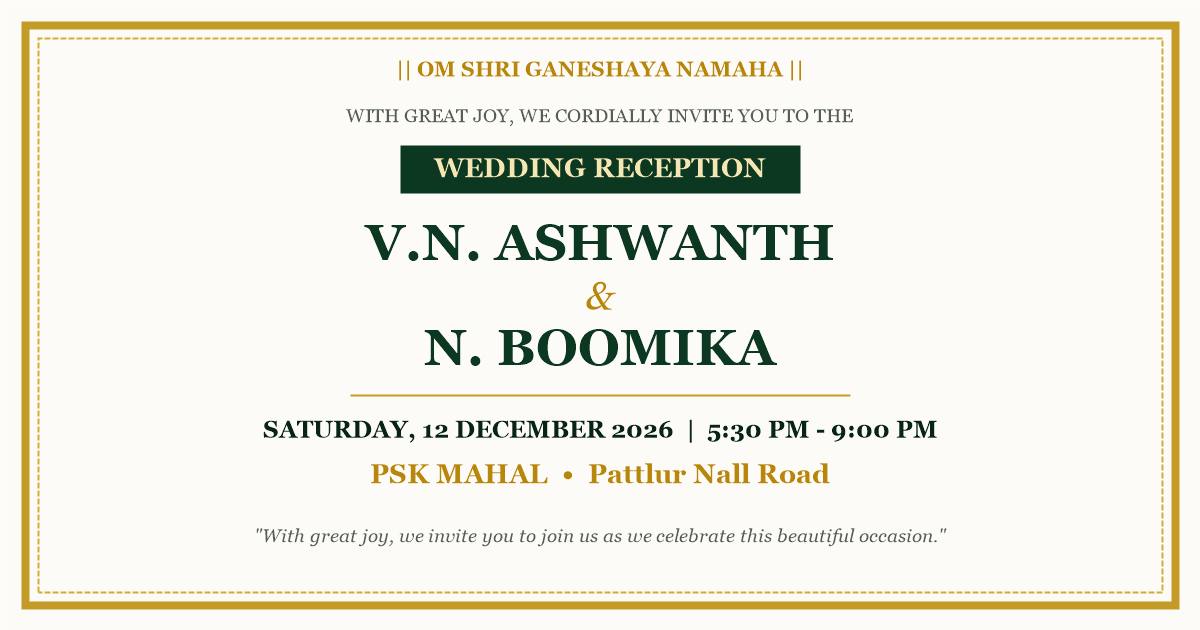
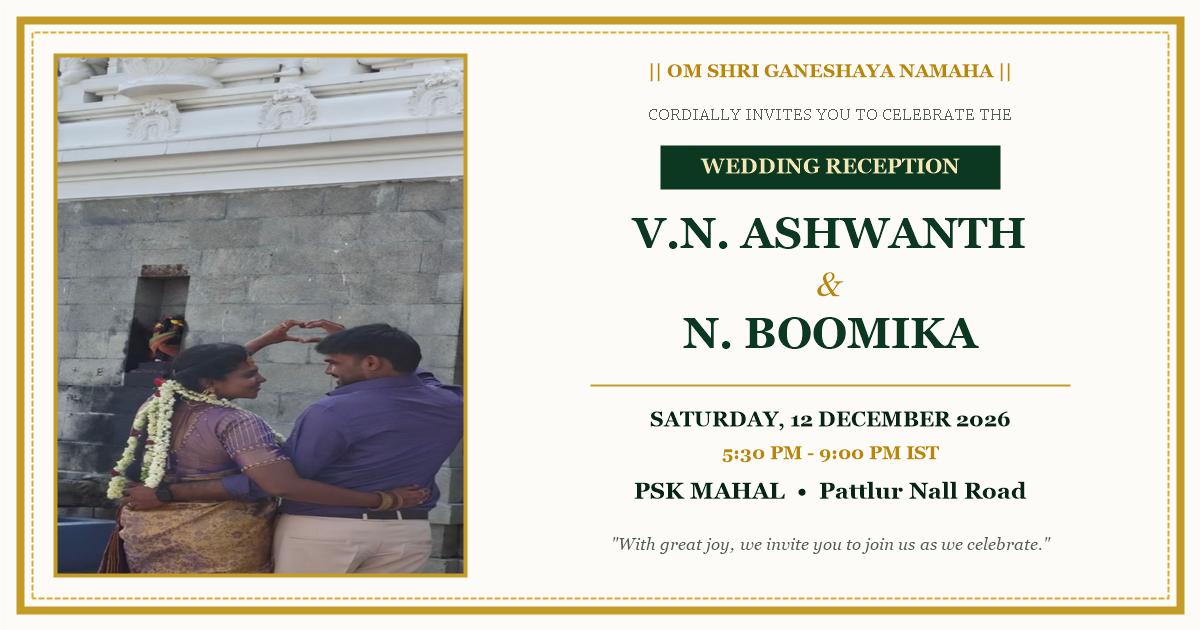
Add authentic couple photographs and updated gallery lightbox

diff --git a/src/components/PhotoGallery.jsx b/src/components/PhotoGallery.jsx
@@ -1,117 +1,210 @@
 import React, { useState } from 'react';
-import { Camera, X, ZoomIn, Image as ImageIcon, Heart } from 'lucide-react';
+import { Camera, X, ZoomIn, Heart, Sparkles, ChevronLeft, ChevronRight } from 'lucide-react';
 import { weddingData } from '../config/invitation';
-import { RoyalMandalaDivider } from './IndianMotifs';
+import { RoyalMandalaDivider, AntiqueCorner } from './IndianMotifs';
 
 /**
  * PhotoGallery Component
- * Provides a responsive royal photo gallery with full-screen Lightbox viewing.
- * Specially designed so the user's uploaded photographs can be seamlessly displayed.
+ * Displays the authentic bride & groom photographs of V.N. Ashwanth & N. Boomika.
+ * Includes interactive Lightbox with next/previous controls and full-screen resolution.
  */
 export const PhotoGallery = () => {
-  const [selectedPhoto, setSelectedPhoto] = useState(null);
+  const [selectedIndex, setSelectedIndex] = useState(null);
 
-  // Checks if user has added personal photos or is waiting for uploads
   const photos = weddingData.gallery || [];
+
+  const handleNext = (e) => {
+    e.stopPropagation();
+    setSelectedIndex((prev) => (prev + 1) % photos.length);
+  };
+
+  const handlePrev = (e) => {
+    e.stopPropagation();
+    setSelectedIndex((prev) => (prev - 1 + photos.length) % photos.length);
+  };
 
   return (
     <section className="py-12 px-4 relative z-10 text-center">
-      <div className="max-w-md md:max-w-2xl mx-auto bg-gradient-to-b from-[#fffdf9] to-[#faf5e8] p-6 md:p-8 rounded-3xl border-2 border-amber-500/40 shadow-[0_12px_40px_rgba(11,35,21,0.08)]">
+      <div className="max-w-md sm:max-w-xl mx-auto bg-gradient-to-b from-[#fffdf9] via-[#faf5e8] to-[#f6eedb] p-6 sm:p-8 rounded-3xl border-2 border-amber-500/40 shadow-[0_15px_45px_rgba(11,35,21,0.08)] relative overflow-hidden">
         
+        {/* Antique Gold Corners */}
+        <div className="absolute top-2 left-2 text-amber-600/60 pointer-events-none">
+          <AntiqueCorner position="top-left" className="w-10 h-10" />
+        </div>
+        <div className="absolute top-2 right-2 text-amber-600/60 pointer-events-none">
+          <AntiqueCorner position="top-right" className="w-10 h-10" />
+        </div>
+
         <p className="font-serif text-xs md:text-sm tracking-[0.25em] uppercase text-emerald-900 font-semibold mb-1">
-          Moments Of Joy
+          Cherished Moments
         </p>
         
         <h3 className="font-script text-3xl md:text-4xl text-amber-700 my-1">
-          Photo Gallery
+          Ashwanth &amp; Boomika
         </h3>
 
         <p className="text-xs text-stone-600 font-sans mb-4">
-          Celebrating the journey of Ashwanth &amp; Boomika
+          Stepping into a lifetime of love, laughter &amp; togetherness
         </p>
 
         <RoyalMandalaDivider className="mb-6" />
 
-        {/* Gallery Grid */}
-        <div className="grid grid-cols-2 gap-3 sm:gap-4">
-          {photos.map((item, idx) => (
-            <div
-              key={item.id || idx}
-              onClick={() => setSelectedPhoto(item)}
-              className="group relative aspect-[4/5] rounded-2xl overflow-hidden cursor-pointer border-2 border-amber-500/30 bg-[#f4ecd8] shadow-sm hover:shadow-md hover:border-amber-500 transition-all duration-300"
-            >
-              <img
-                src={item.url}
-                alt={item.alt || `Ashwanth & Boomika photo ${idx + 1}`}
-                className="w-full h-full object-cover group-hover:scale-105 transition-transform duration-500"
-                loading="lazy"
-                onError={(e) => {
-                  // Fallback styling if image url not found yet
-                  e.target.style.display = 'none';
-                  e.target.nextSibling.style.display = 'flex';
-                }}
-              />
-              
-              {/* Fallback placeholder when waiting for user's upload */}
-              <div className="hidden absolute inset-0 flex-col items-center justify-center p-4 text-center bg-[#f7f1e1]">
-                <Camera className="w-8 h-8 text-amber-600/60 mb-2" />
-                <span className="font-serif text-xs text-emerald-950 font-bold">
+        {/* FEATURED PHOTO: Couple Romantic Heart Pose */}
+        {photos[0] && (
+          <div 
+            onClick={() => setSelectedIndex(0)}
+            className="group relative w-full aspect-[4/5] sm:aspect-[16/10] rounded-2xl overflow-hidden cursor-pointer border-2 border-amber-500/50 shadow-md mb-4 bg-stone-900"
+          >
+            <img
+              src={photos[0].url}
+              alt={photos[0].alt}
+              className="w-full h-full object-cover object-top group-hover:scale-105 transition-transform duration-500"
+            />
+            <div className="absolute inset-0 bg-gradient-to-t from-emerald-950/80 via-transparent to-black/20 flex flex-col justify-between p-4 text-left">
+              <span className="self-end px-3 py-1 rounded-full bg-black/40 backdrop-blur-xs text-amber-300 text-[10px] font-serif tracking-widest uppercase border border-amber-400/40">
+                Tap to Expand
+              </span>
+              <div>
+                <p className="text-white font-serif font-bold text-base sm:text-lg drop-shadow-md">
                   Ashwanth &amp; Boomika
-                </span>
-                <span className="text-[10px] text-stone-500 font-sans mt-1">
-                  Photograph {idx + 1}
-                </span>
-              </div>
-
-              {/* Hover overlay with zoom icon */}
-              <div className="absolute inset-0 bg-gradient-to-t from-emerald-950/70 via-transparent to-transparent opacity-0 group-hover:opacity-100 transition-opacity duration-300 flex items-end justify-center p-3">
-                <div className="flex items-center gap-1.5 text-amber-200 text-xs font-serif">
-                  <ZoomIn className="w-3.5 h-3.5" />
-                  <span className="hidden sm:inline">View Full Photo</span>
-                </div>
+                </p>
+                <p className="text-amber-200 text-xs font-sans tracking-wide">
+                  {photos[0].caption}
+                </p>
               </div>
             </div>
-          ))}
+          </div>
+        )}
+
+        {/* 2-COLUMN GRID: Groom & Bride Portraits */}
+        <div className="grid grid-cols-2 gap-3 sm:gap-4 mb-4">
+          {/* Groom Portrait */}
+          {photos[1] && (
+            <div
+              onClick={() => setSelectedIndex(1)}
+              className="group relative aspect-[3/4] rounded-2xl overflow-hidden cursor-pointer border-2 border-amber-500/40 bg-stone-900 shadow-sm hover:shadow-md hover:border-amber-500 transition-all duration-300"
+            >
+              <img
+                src={photos[1].url}
+                alt={photos[1].alt}
+                className="w-full h-full object-cover object-center group-hover:scale-105 transition-transform duration-500"
+              />
+              <div className="absolute inset-0 bg-gradient-to-t from-emerald-950/80 via-transparent to-transparent flex flex-col justify-end p-3 text-left">
+                <span className="text-[10px] font-sans tracking-[0.2em] text-amber-300 font-semibold uppercase">
+                  Groom
+                </span>
+                <p className="text-white font-serif font-bold text-sm">
+                  V.N. Ashwanth
+                </p>
+              </div>
+            </div>
+          )}
+
+          {/* Bride Portrait */}
+          {photos[2] && (
+            <div
+              onClick={() => setSelectedIndex(2)}
+              className="group relative aspect-[3/4] rounded-2xl overflow-hidden cursor-pointer border-2 border-amber-500/40 bg-stone-900 shadow-sm hover:shadow-md hover:border-amber-500 transition-all duration-300"
+            >
+              <img
+                src={photos[2].url}
+                alt={photos[2].alt}
+                className="w-full h-full object-cover object-top group-hover:scale-105 transition-transform duration-500"
+              />
+              <div className="absolute inset-0 bg-gradient-to-t from-emerald-950/80 via-transparent to-transparent flex flex-col justify-end p-3 text-left">
+                <span className="text-[10px] font-sans tracking-[0.2em] text-amber-300 font-semibold uppercase">
+                  Bride
+                </span>
+                <p className="text-white font-serif font-bold text-sm">
+                  N. Boomika
+                </p>
+              </div>
+            </div>
+          )}
         </div>
 
-        {/* Upload Note for the Host */}
-        <div className="mt-6 pt-4 border-t border-amber-400/30">
+        {/* BOTTOM PHOTO: Holding Hands */}
+        {photos[3] && (
+          <div
+            onClick={() => setSelectedIndex(3)}
+            className="group relative aspect-[16/9] rounded-2xl overflow-hidden cursor-pointer border-2 border-amber-500/40 bg-stone-900 shadow-sm hover:shadow-md hover:border-amber-500 transition-all duration-300"
+          >
+            <img
+              src={photos[3].url}
+              alt={photos[3].alt}
+              className="w-full h-full object-cover object-center group-hover:scale-105 transition-transform duration-500"
+            />
+            <div className="absolute inset-0 bg-gradient-to-t from-emerald-950/80 via-transparent to-transparent flex items-end justify-between p-3.5 text-left">
+              <div>
+                <p className="text-white font-serif font-bold text-sm sm:text-base">
+                  Hand in Hand
+                </p>
+                <p className="text-amber-200 text-xs font-sans">
+                  {photos[3].caption}
+                </p>
+              </div>
+              <ZoomIn className="w-4 h-4 text-amber-300 self-end" />
+            </div>
+          </div>
+        )}
+
+        <div className="mt-5 pt-3 border-t border-amber-400/30">
           <p className="text-[11px] font-sans text-stone-500 italic">
-            Tap on any photo to view in high resolution
+            Click on any photograph to view in high resolution
           </p>
         </div>
+
       </div>
 
       {/* Full-Screen Lightbox Modal */}
-      {selectedPhoto && (
+      {selectedIndex !== null && (
         <div 
-          className="fixed inset-0 z-50 flex items-center justify-center bg-black/90 p-4 backdrop-blur-sm animate-fadeIn"
-          onClick={() => setSelectedPhoto(null)}
+          className="fixed inset-0 z-50 flex items-center justify-center bg-black/95 p-4 backdrop-blur-md animate-fadeIn select-none"
+          onClick={() => setSelectedIndex(null)}
         >
           {/* Close button */}
           <button
-            onClick={() => setSelectedPhoto(null)}
-            className="absolute top-5 right-5 p-2 rounded-full bg-white/10 text-white hover:bg-white/20 transition-colors"
+            onClick={() => setSelectedIndex(null)}
+            className="absolute top-5 right-5 p-2 rounded-full bg-white/10 text-white hover:bg-white/20 transition-colors z-50 cursor-pointer"
             aria-label="Close photo"
           >
             <X className="w-6 h-6" />
           </button>
 
-          {/* Modal Container */}
+          {/* Navigation Controls */}
+          <button
+            onClick={handlePrev}
+            className="absolute left-3 sm:left-6 top-1/2 -translate-y-1/2 p-2.5 rounded-full bg-white/10 hover:bg-white/25 text-white transition-colors z-50 cursor-pointer"
+            aria-label="Previous photo"
+          >
+            <ChevronLeft className="w-6 h-6" />
+          </button>
+          <button
+            onClick={handleNext}
+            className="absolute right-3 sm:right-6 top-1/2 -translate-y-1/2 p-2.5 rounded-full bg-white/10 hover:bg-white/25 text-white transition-colors z-50 cursor-pointer"
+            aria-label="Next photo"
+          >
+            <ChevronRight className="w-6 h-6" />
+          </button>
+
+          {/* Image & Caption */}
           <div 
-            className="relative max-w-3xl max-h-[85vh] flex flex-col items-center"
+            className="relative max-w-4xl max-h-[85vh] flex flex-col items-center justify-center"
             onClick={(e) => e.stopPropagation()}
           >
             <img
-              src={selectedPhoto.url}
-              alt={selectedPhoto.alt || "Reception Gallery Photo"}
-              className="max-w-full max-h-[75vh] object-contain rounded-xl border-2 border-amber-400/60 shadow-2xl"
+              src={photos[selectedIndex].url}
+              alt={photos[selectedIndex].alt}
+              className="max-w-full max-h-[75vh] object-contain rounded-2xl border-2 border-amber-400/70 shadow-2xl"
             />
-            {selectedPhoto.caption && (
-              <p className="mt-3 text-amber-200 font-serif text-sm tracking-wide text-center">
-                {selectedPhoto.caption}
-              </p>
+            {photos[selectedIndex].caption && (
+              <div className="mt-4 px-4 py-2 rounded-full bg-black/60 border border-amber-400/30 text-amber-200 font-serif text-sm tracking-wide text-center max-w-lg">
+                {photos[selectedIndex].caption}
+              </div>
             )}
+            <p className="text-stone-400 text-xs mt-2 font-sans">
+              Photo {selectedIndex + 1} of {photos.length}
+            </p>
           </div>
         </div>
       )}

diff --git a/src/config/invitation.js b/src/config/invitation.js
@@ -50,33 +50,32 @@ export const weddingData = {
     }
   ],
 
-  // Photo Gallery
-  // The bride and groom photos will be uploaded here.
-  // Replace these URLs or drop photos in public/images/
+  // Photo Gallery - Authentic Bride & Groom Photographs
   gallery: [
     {
       id: 1,
-      url: "https://images.unsplash.com/photo-1583939003579-730e3918a45a?auto=format&fit=crop&w=1000&q=80",
-      caption: "Two souls, one beautiful journey ahead",
-      alt: "Ashwanth & Boomika"
+      url: "/images/couple-heart.jpg",
+      caption: "Ashwanth & Boomika — A heart full of love, a lifetime of togetherness",
+      alt: "V.N. Ashwanth & N. Boomika making a heart pose",
+      featured: true
     },
     {
       id: 2,
-      url: "https://images.unsplash.com/photo-1610030469983-98e550d6193c?auto=format&fit=crop&w=1000&q=80",
-      caption: "A celebration of love, laughter & forever",
-      alt: "Ashwanth & Boomika Moments"
+      url: "/images/groom-ashwanth.jpg",
+      caption: "The Groom — V.N. Ashwanth",
+      alt: "V.N. Ashwanth Groom Portrait"
     },
     {
       id: 3,
-      url: "https://images.unsplash.com/photo-1519741497674-611481863552?auto=format&fit=crop&w=1000&q=80",
-      caption: "Surrounded by tradition, blessed by elders",
-      alt: "Royal Reception Elegance"
+      url: "/images/bride-boomika.jpg",
+      caption: "The Bride — N. Boomika",
+      alt: "N. Boomika Bride Portrait"
     },
     {
       id: 4,
-      url: "https://images.unsplash.com/photo-1606800052052-a08af7148866?auto=format&fit=crop&w=1000&q=80",
-      caption: "Moments turning into everlasting memories",
-      alt: "Celebration of Togetherness"
+      url: "/images/holding-hands.jpg",
+      caption: "Hand in hand, stepping into our forever",
+      alt: "Ashwanth & Boomika holding hands"
     }
   ],
 
